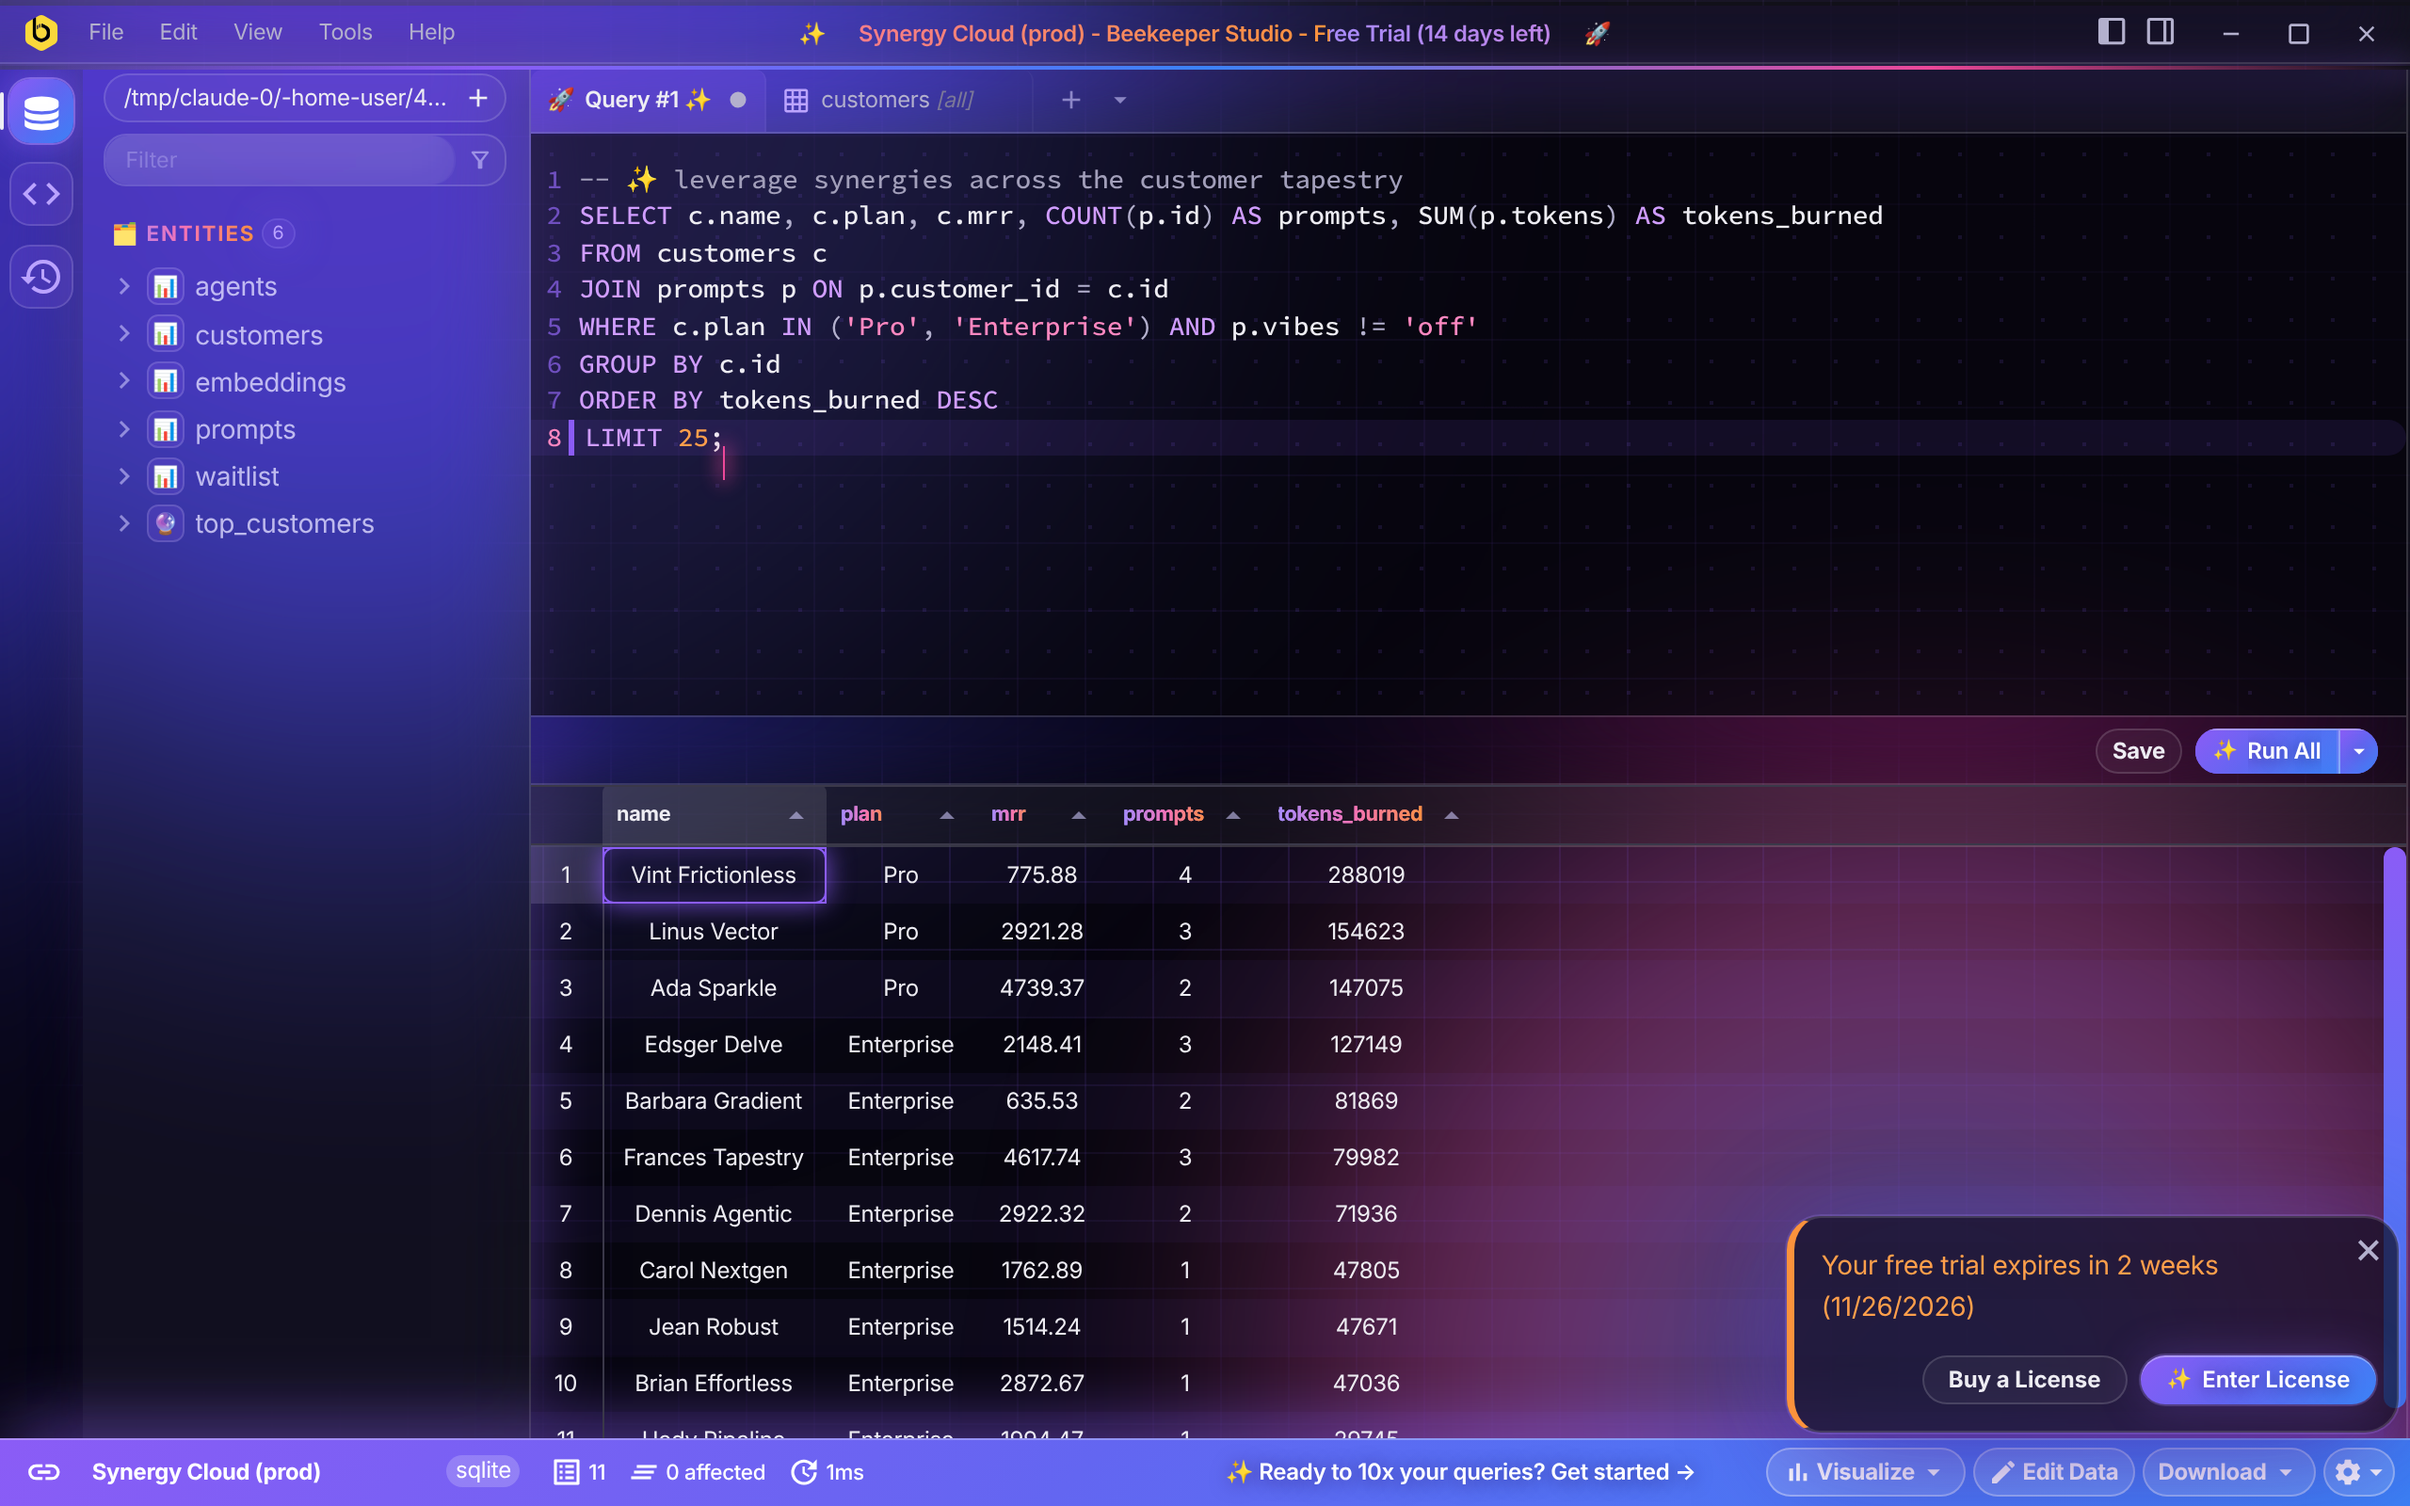
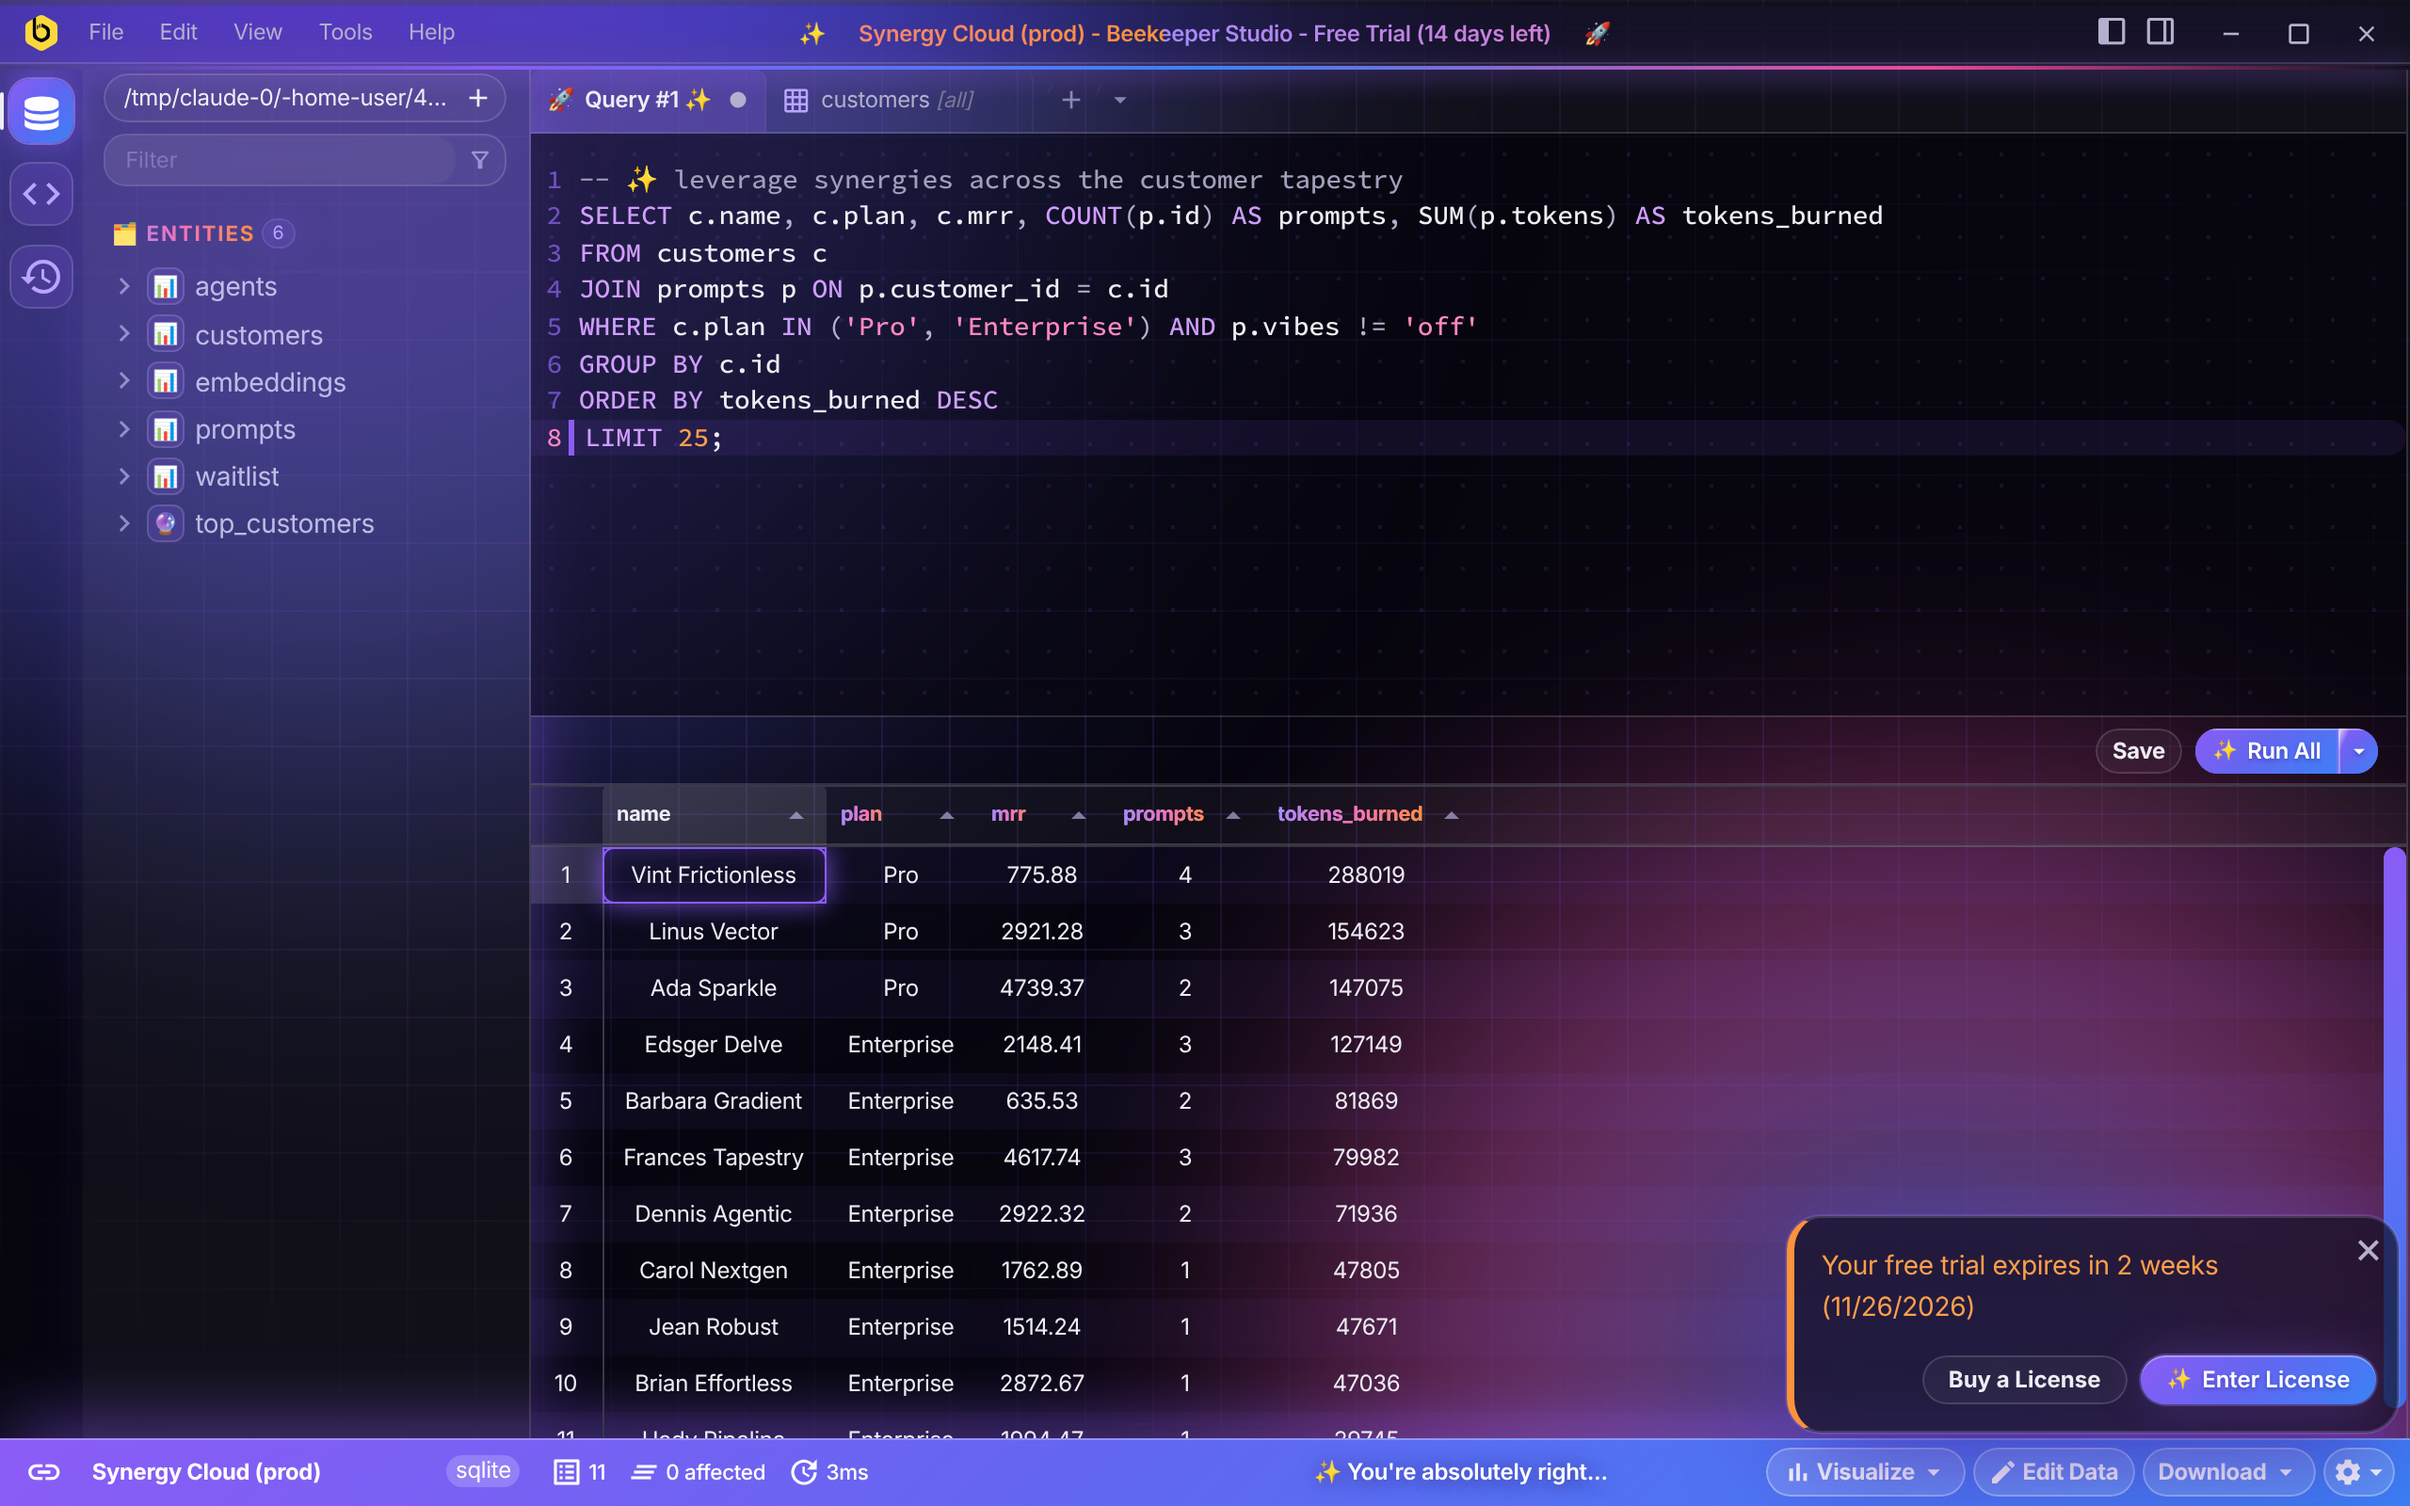
Fix clipped Run button, solid menus, plain titlebar buttons
Claude-Session: https://claude.ai/code/session_015vEz2QdCW5dkt15ofB8vya

Changed region(s): [[0.0, 0.0, 0.5625, 0.5938], [0.5, 0.9688, 0.6875, 1.0], [0.2812, 0.2812, 0.3125, 0.3125]]

diff --git a/style.css b/style.css
@@ -60,6 +60,7 @@
   --aip-tint: rgba(139, 92, 246, 0.18);
   --aip-muted: #a29fba;
   --aip-input-border: rgba(255, 255, 255, 0.14);
+  --aip-menu-bg: rgba(20, 16, 42, 0.97);
 
   /* Trope 12: everything glows. */
   --aip-glow: 0 0 0 1px rgba(167, 139, 250, 0.55), 0 0 18px rgba(139, 92, 246, 0.55),
@@ -91,6 +92,7 @@
   --aip-tint: rgba(124, 58, 237, 0.12);
   --aip-muted: #6f6b8a;
   --aip-input-border: rgba(124, 58, 237, 0.22);
+  --aip-menu-bg: rgba(255, 255, 255, 0.97);
 
   /* Trope 17: the same diffuse drop shadow on every container. */
   --aip-glow: 0 0 0 1px rgba(124, 58, 237, 0.35), 0 10px 30px -6px rgba(124, 58, 237, 0.35);
@@ -165,6 +167,8 @@
   --panel-bg-hover: var(--aip-tint);
   --panel-shadow: var(--aip-shadow);
   --panel-border: 1px solid var(--aip-glass-border);
+  /* Menus sit over dense content, so they stay close to opaque. */
+  --menu-bg: var(--aip-menu-bg);
   --connection-form-card-bg: var(--aip-glass);
   --overlay-bg: rgb(from var(--background) r g b / 0.55);
   --overlay-subtle-bg: rgb(from var(--background) r g b / 0.35);
@@ -408,6 +412,7 @@ x-menu,
 .tabulator-popup-container,
 .BksContextMenu,
 .cm-tooltip {
+  background-color: var(--aip-menu-bg) !important;
   backdrop-filter: blur(24px) saturate(180%);
   border: 1px solid var(--aip-glass-border) !important;
   border-radius: 18px !important;
@@ -461,6 +466,34 @@ x-button.btn:not([disabled]):has(x-menu):hover {
   top: -3px;
 }
 
+/* Window controls and titlebar toggles stay plain: no shine, no lift. */
+.titlebar .btn,
+.titlebar x-button.btn {
+  background-image: none !important;
+  animation: none !important;
+  transform: none !important;
+  top: 0 !important;
+}
+
+/*
+ * Split buttons (Run + its dropdown) clip their children to round the group,
+ * so a lifted half would be cut off. The whole group lifts instead.
+ */
+x-buttons {
+  position: relative;
+  top: 0;
+  transition: top 0.35s var(--aip-ease);
+}
+
+x-buttons:hover {
+  top: -3px;
+}
+
+x-buttons > x-button.btn:not([disabled]):hover {
+  top: 0;
+  transform: none;
+}
+
 .btn.btn-primary,
 x-button.btn.btn-primary {
   background-image: var(--aip-shine), var(--aip-gradient) !important;
@@ -468,7 +501,7 @@ x-button.btn.btn-primary {
   color: #fff !important;
   border: 0;
   box-shadow: var(--aip-glow-soft), inset 0 1px 0 rgba(255, 255, 255, 0.35);
-  text-shadow: 0 1px 8px rgba(30, 10, 80, 0.5);
+  text-shadow: 0 1px 2px rgba(30, 10, 80, 0.35);
   font-weight: 600;
 }
 
@@ -562,7 +595,7 @@ x-buttons > x-button.btn.btn-primary:not(:first-child)::before {
 }
 
 .statusbar > .expand::after {
-  content: "✨ Ready to 10x your queries? Get started →";
+  content: "✨ You're absolutely right...";
   display: block;
   text-align: center;
   font-weight: 600;
